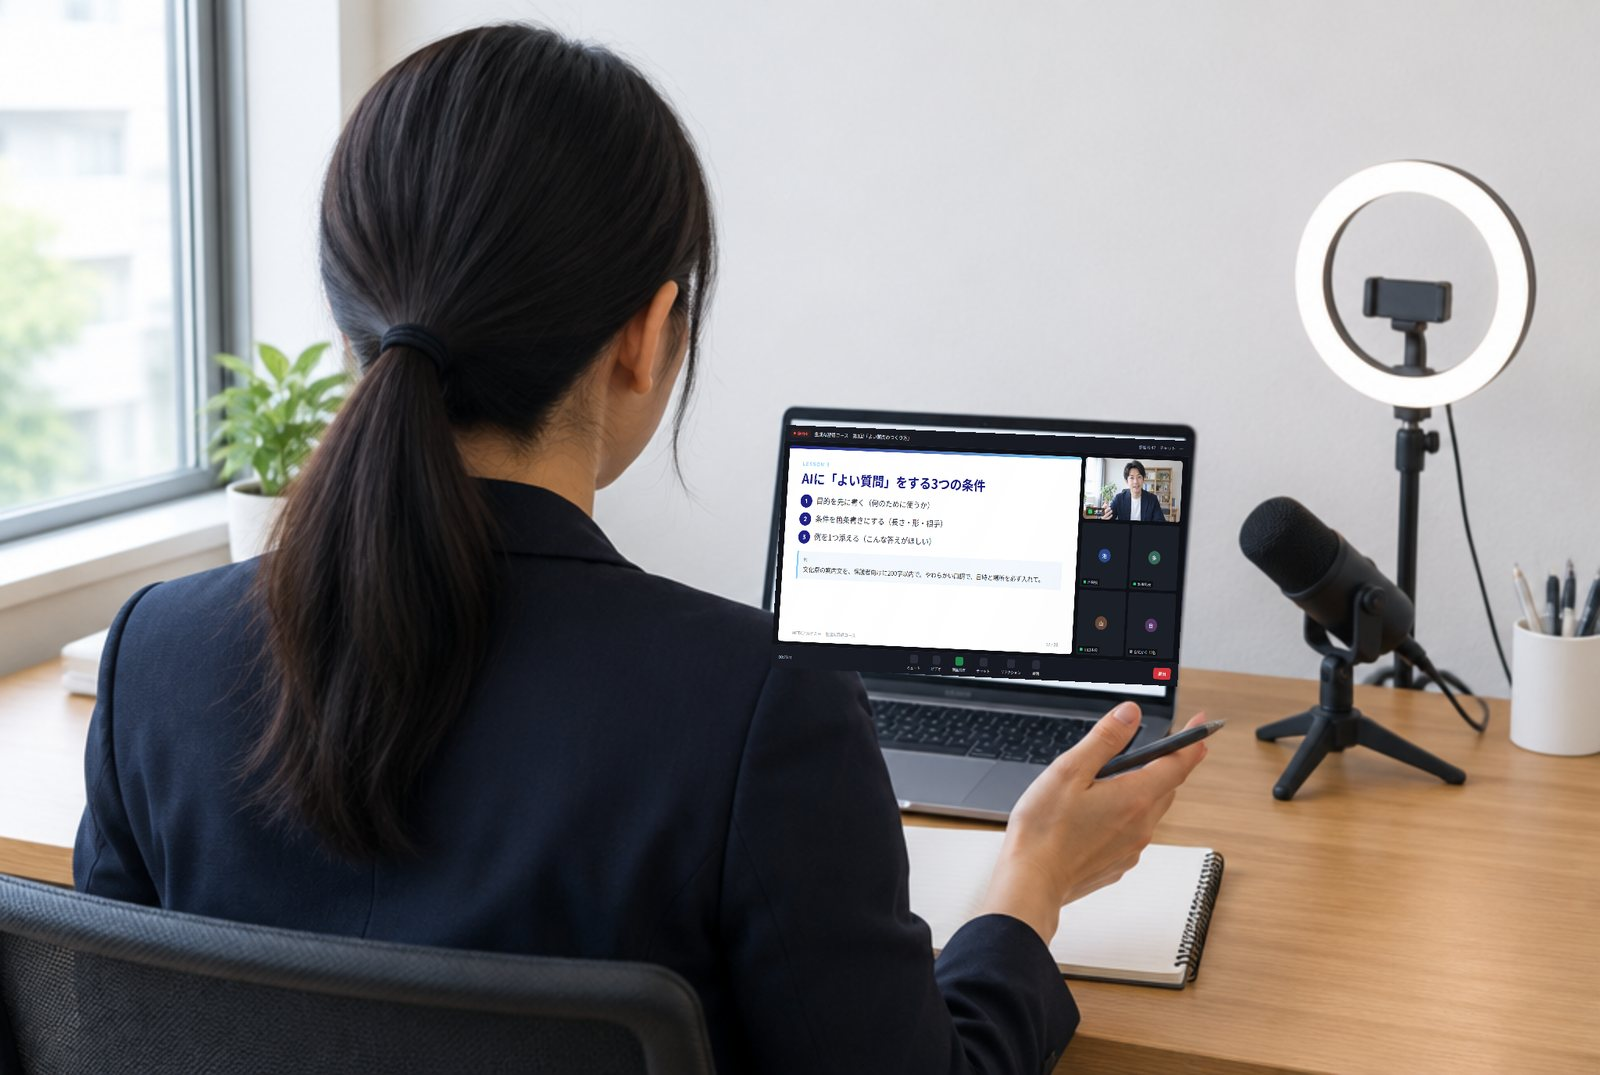
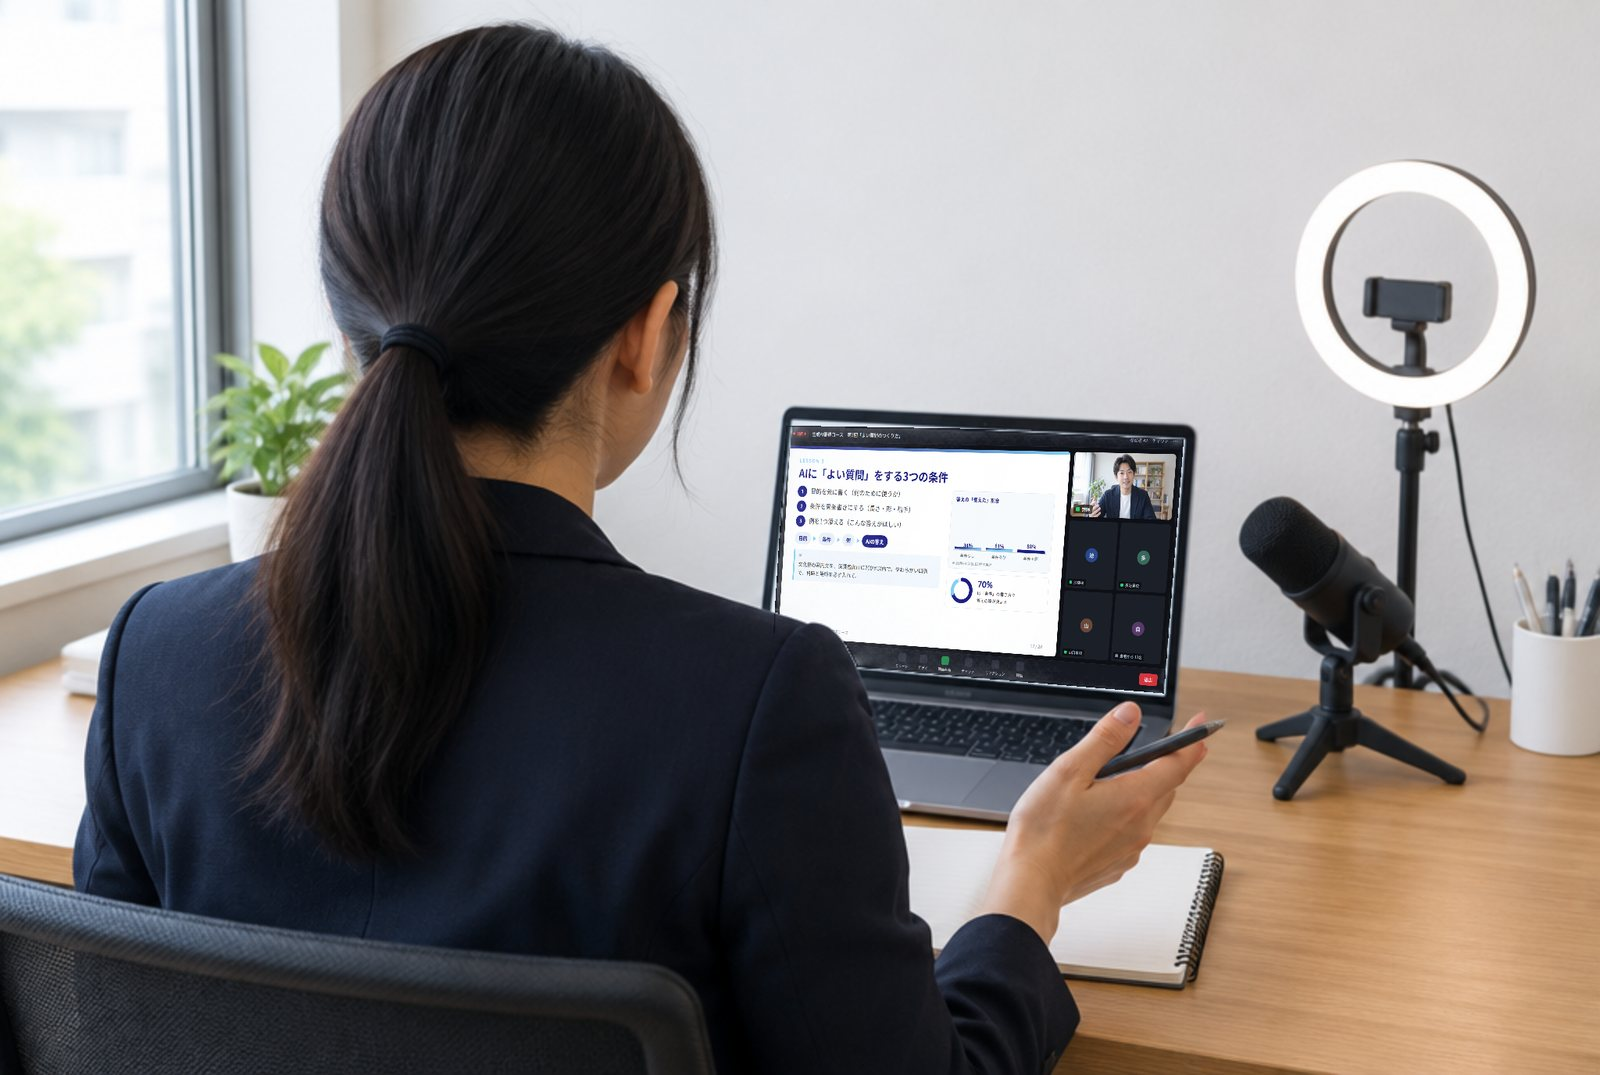
教室とノートPCの画面を直す（髪・肩を画面の手前に／四隅を自動検出して傾きを合わせる／スライドにグラフと図を追加）

Changed region(s): [[0.4688, 0.3991, 0.75, 0.6447]]

diff --git a/index.html b/index.html
@@ -12,7 +12,7 @@
 <link rel="preconnect" href="https://fonts.gstatic.com" crossorigin>
 <link rel="stylesheet" href="https://fonts.googleapis.com/css2?family=Noto+Sans+JP:wght@400;500;700&family=Quicksand:wght@500;600;700&display=swap">
 <link rel="stylesheet" href="https://cdnjs.cloudflare.com/ajax/libs/font-awesome/6.5.2/css/all.min.css">
-<link rel="stylesheet" href="assets/css/style.css?v=202610280655">
+<link rel="stylesheet" href="assets/css/style.css?v=202610280705">
 </head>
 <body id="top" class="home">
 
@@ -56,9 +56,9 @@
 <!-- ===== ヒーロー ===== -->
 <section class="hero" id="hero">
 	<div class="hero-bg">
-		<img src="assets/img/hero_poster.jpg?v=202610280655" alt="" class="hero-still">
-		<video id="heroVideo" class="hero-video" autoplay muted loop playsinline preload="auto" poster="assets/img/hero_poster.jpg?v=202610280655" aria-hidden="true">
-			<source src="assets/img/hero_video.mp4?v=202610280655" type="video/mp4">
+		<img src="assets/img/hero_poster.jpg?v=202610280705" alt="" class="hero-still">
+		<video id="heroVideo" class="hero-video" autoplay muted loop playsinline preload="auto" poster="assets/img/hero_poster.jpg?v=202610280705" aria-hidden="true">
+			<source src="assets/img/hero_video.mp4?v=202610280705" type="video/mp4">
 		</video>
 	</div>
 	<div class="hero-inner" id="heroInner">
@@ -168,7 +168,7 @@
 		</div>
 		<div class="course-visual">
 			<div class="cv-stage">
-				<img src="assets/img/course_tools.jpg?v=202610280655" alt="ドローン・VR・マイク・タブレット・カメラ・鍵盤など、コースで使う道具">
+				<img src="assets/img/course_tools.jpg?v=202610280705" alt="ドローン・VR・マイク・タブレット・カメラ・鍵盤など、コースで使う道具">
 				<svg class="cv-label" viewBox="0 0 1344 390" aria-hidden="true">
 					<defs>
 						<linearGradient id="cvScreen" x1="0" y1="0" x2="0.3" y2="1"><stop offset="0" stop-color="#232596"/><stop offset="1" stop-color="#0B0D3F"/></linearGradient>
@@ -216,7 +216,7 @@
 		</div>
 
 		<div class="split">
-			<div class="split-img"><img src="assets/img/classroom.jpg?v=202610280655" alt="教室で授業を受ける生徒たち"></div>
+			<div class="split-img"><img src="assets/img/classroom.jpg?v=202610280705" alt="教室で授業を受ける生徒たち"></div>
 			<div class="split-txt">
 				<h3>ハイブリッド授業</h3>
 				<p>プロ講師の授業をオンラインで各校舎に配信し、教室には学校の先生が立ち会います。講師が教室を訪れる対面の回を組み合わせることで、画面越しだけでは得られない体験も残します。授業は録画してアーカイブにし、欠席した生徒の学び直しにも使えます。</p>
@@ -224,7 +224,7 @@
 		</div>
 
 		<div class="split rev">
-			<div class="split-img"><img src="assets/img/tablet.jpg?v=202610280655" alt="タブレットで学ぶ"></div>
+			<div class="split-img"><img src="assets/img/tablet.jpg?v=202610280705" alt="タブレットで学ぶ"></div>
 			<div class="split-txt">
 				<h3>3つの独自システム</h3>
 				<dl class="sys-list">
@@ -255,7 +255,7 @@
 			<p class="lead">あなたの専門を、全国の高校生へ。<br class="pc">教えること以外は、METAアカデミーが引き受けます。</p>
 		</div>
 		<div class="split">
-			<div class="split-img"><img src="assets/img/lecturer.jpg?v=202610280655" alt="オンラインで授業を配信する講師"></div>
+			<div class="split-img"><img src="assets/img/lecturer.jpg?v=202610280705" alt="オンラインで授業を配信する講師"></div>
 			<div class="split-txt">
 				<ul class="check-list">
 					<li><strong>授業に集中できる</strong><span>学校との調整・契約・請求・生徒への連絡は、すべてMETAが代行します。</span></li>
@@ -399,6 +399,6 @@
 </footer>
 
 <a href="#top" class="to-top" id="toTop" aria-label="ページの先頭へ"><i class="fa-solid fa-chevron-up"></i></a>
-<script src="assets/js/main.js?v=202610280655"></script>
+<script src="assets/js/main.js?v=202610280705"></script>
 </body>
 </html>
